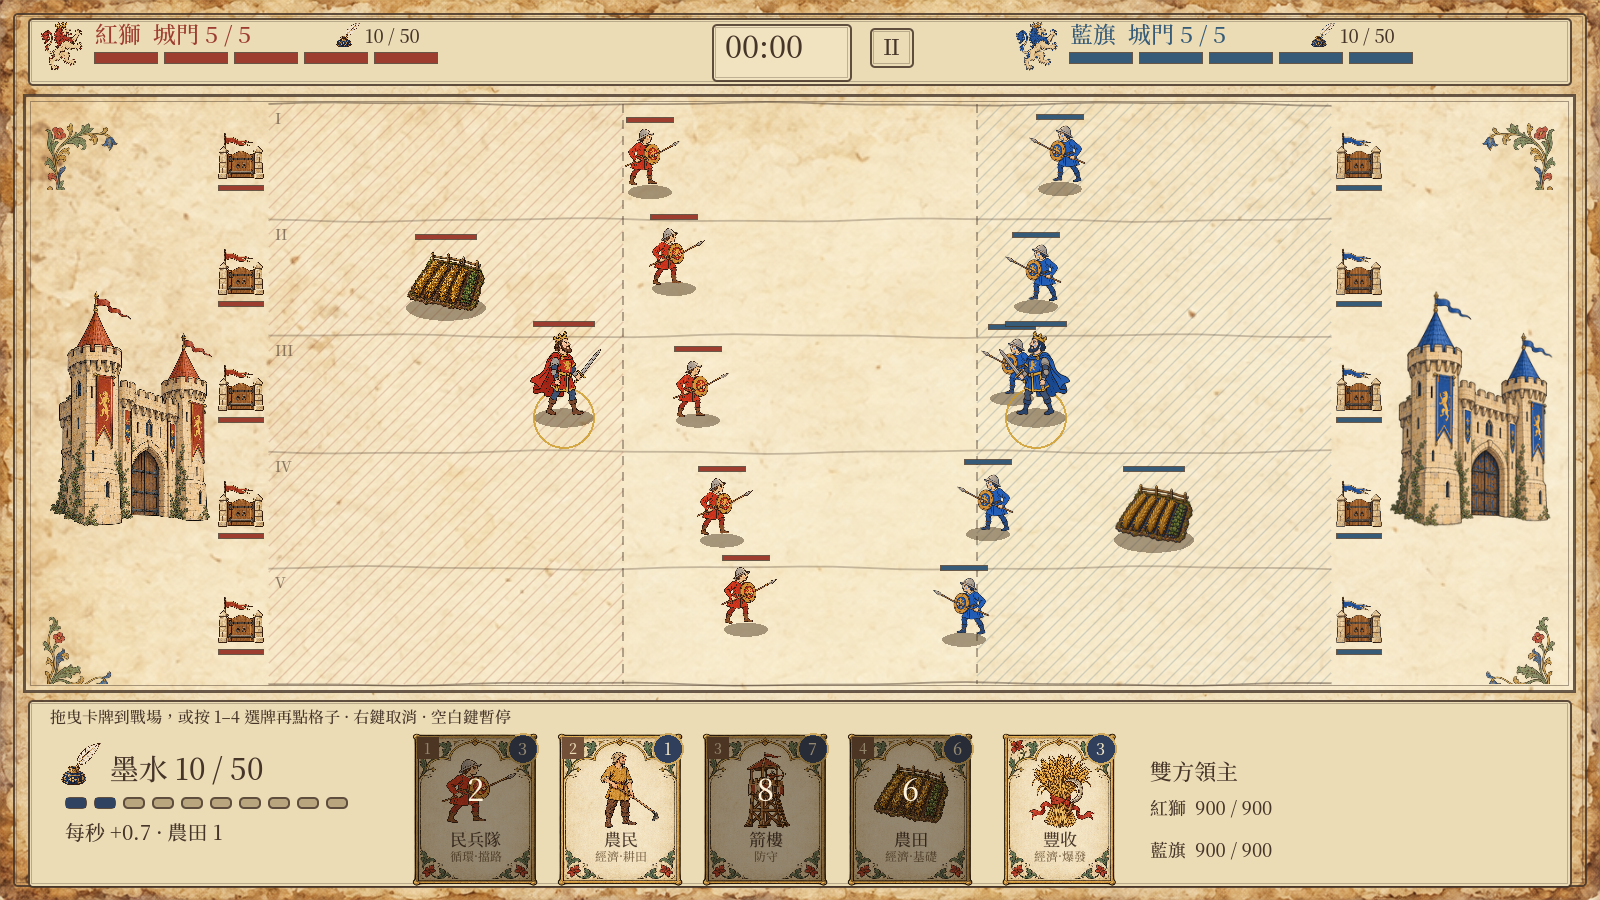
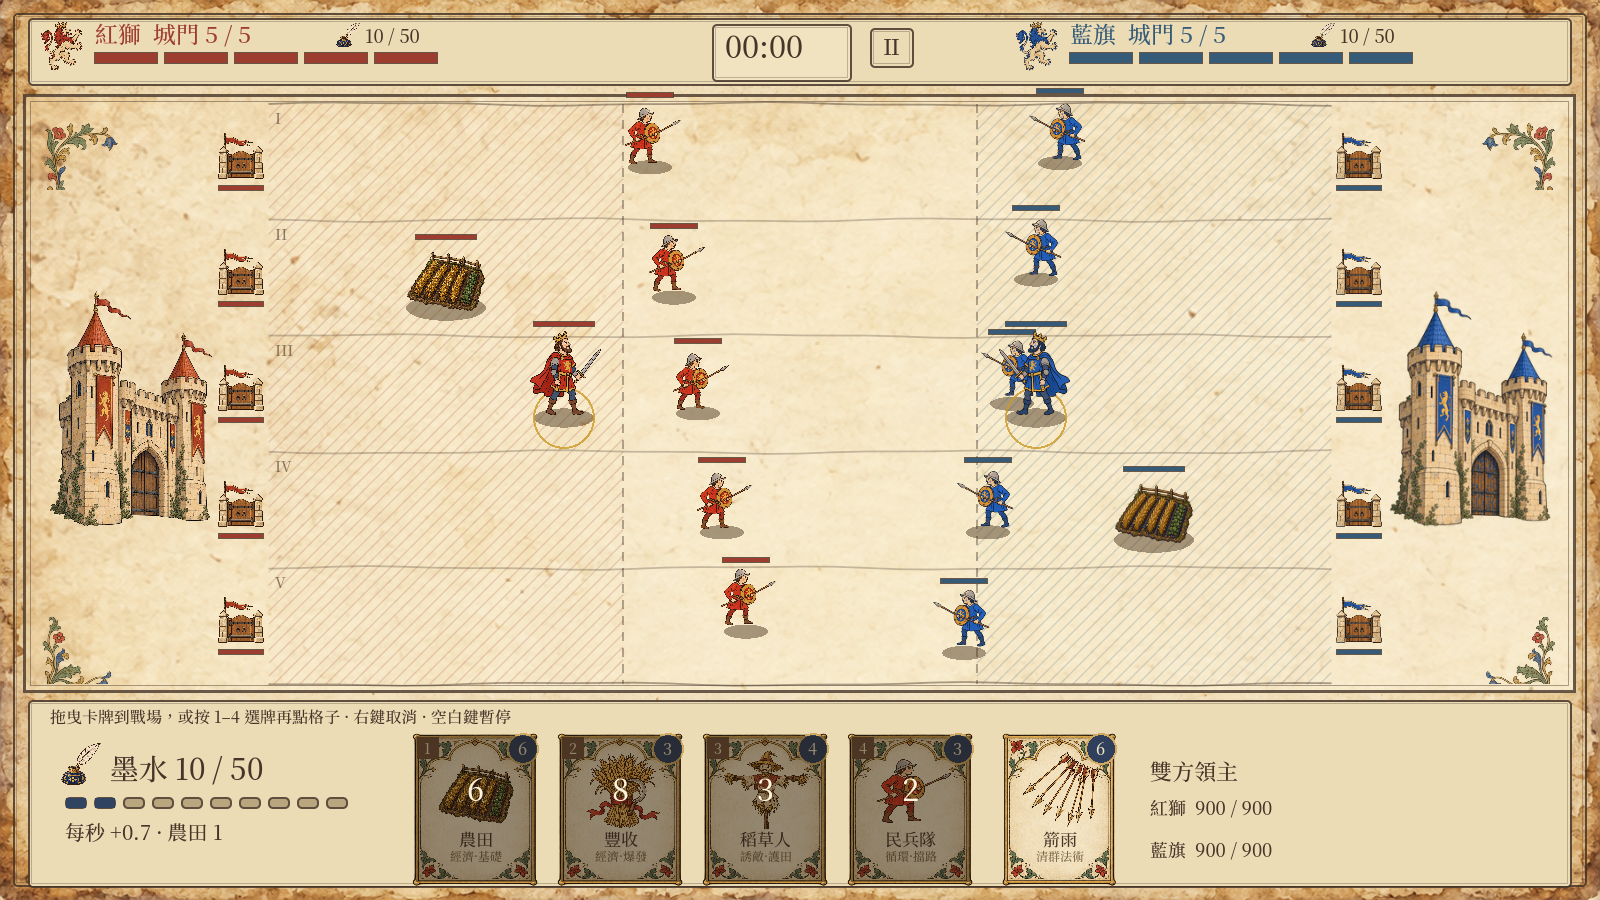
Card cooldowns speed up with the ink ramp
Cooldowns count down x1.5 after 3:00 and x2 after 5:00, the same as ink.
Producer decision 2026-10-29.

diff --git a/docs/企劃書.md b/docs/企劃書.md
@@ -9,6 +9,7 @@
 >   - **卡牌只分三類：部隊、建築、法術。部隊一律往敵方前進，不會回頭。**
 >   - **領主完全由 AI 接管**（雙方），沒有手動操作。
 > - v4.1：**墨水上限 10 → 50**。墨水數字整體 ×2（費用、回復、產量），讓費用分得更細；出牌冷卻、AI 門檻、介面跟著調整。
+> - v5.1（2026-10-29）：墨水加速時，卡牌冷卻也用同樣倍率加快。
 > - v5.0（2026-10-29）：取消全域出牌冷卻，改成每張卡到手上後各自冷卻 0–30 秒（見第 9、11 節）。
 > - v4.8（2026-10-29）：修正領主打不到城門口敵兵；拆殘垣的敵兵最優先；領主回血大幅調降。
 > - v4.7（2026-10-29）：卡牌依定位重排，費用 1–30（見第 11 節）。
@@ -117,7 +118,7 @@
 
 - **牌組 8 張**，開局洗牌；**開局手牌一定有農田**（洗完若農田不在前 4 張，就換到手牌隨機一格）。**手牌 4 張**＋**下一張預覽**。打出的牌回到牌組最後面。
 - 選牌：滑鼠點手牌，或按 **1–4**；再點戰場放置。右鍵／Esc 取消。
-- **卡牌冷卻（v5.0）**：每張卡有自己的冷卻秒數（0–30 秒）。卡牌一進到手上（包括開局手牌）就開始倒數，倒數完才能出；卡面蓋一層倒數秒數。沒有全域出牌冷卻。
+- **卡牌冷卻（v5.0）**：每張卡有自己的冷卻秒數（0–30 秒）。卡牌一進到手上（包括開局手牌）就開始倒數，倒數完才能出；卡面蓋一層倒數秒數。沒有全域出牌冷卻。墨水加速時冷卻也一起加速（3 分鐘後 ×1.5、5 分鐘後 ×2，v5.1）。
 - 預覽：選牌時可放的格子高亮，滑鼠所在格顯示半透明圖；部隊顯示一條「會往前走的路線」並標出路上會被耕的農田；法術顯示範圍圓圈。墨水不足的牌變灰並顯示還差幾滴。
 - 牌組編成：開戰前在「牌組畫面」從卡池選 8 張，**至少 1 張農田**。提供 3 組預設牌組。存在 `user://deck.json`。
 
